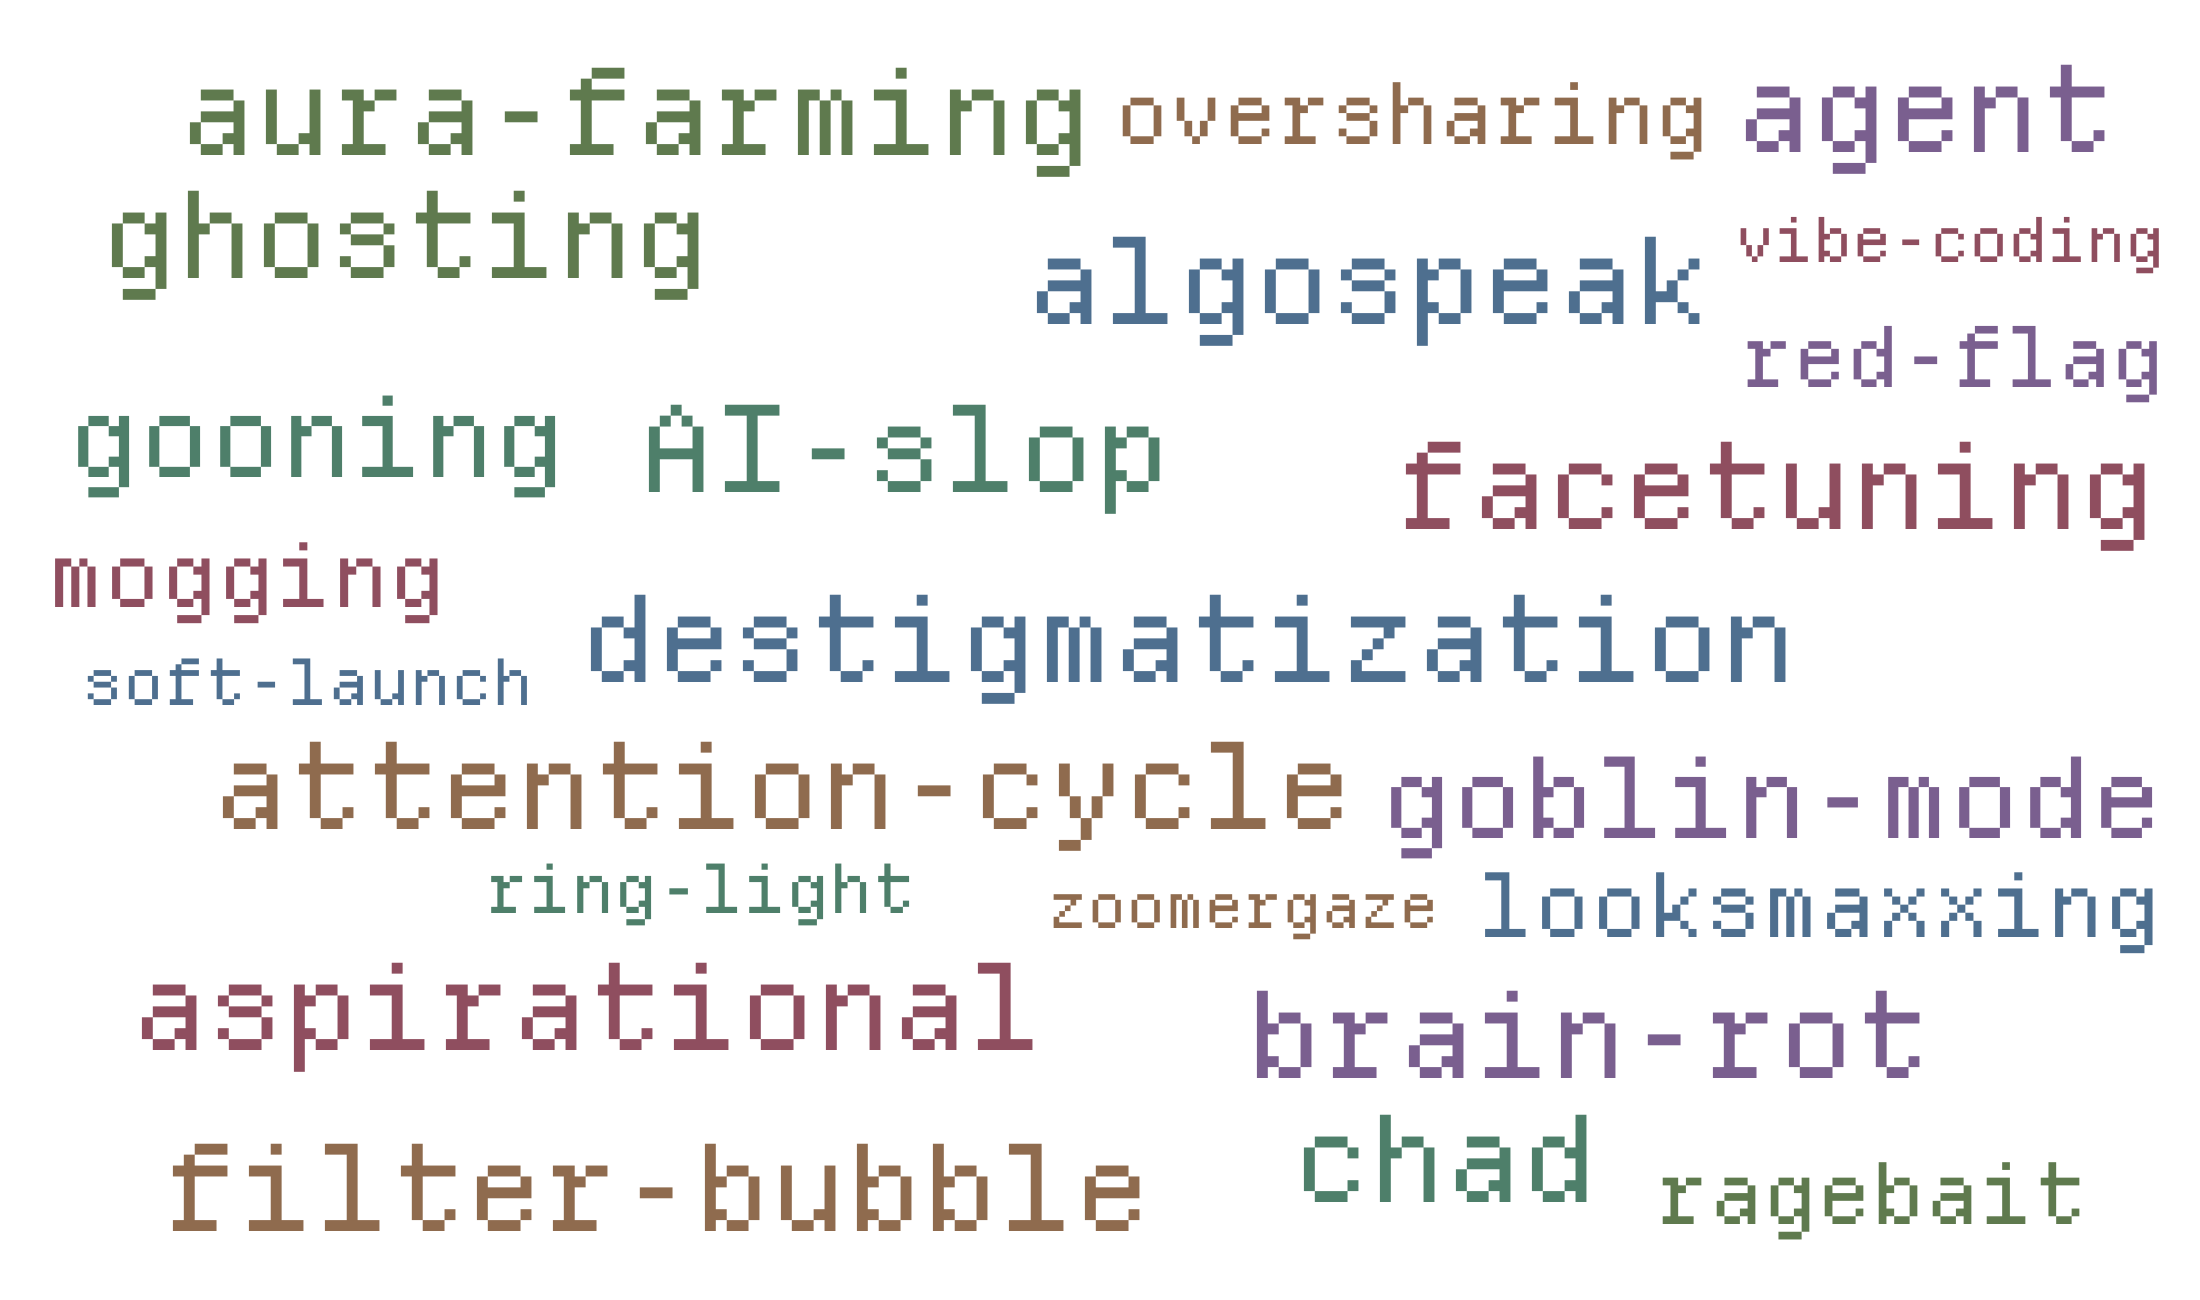
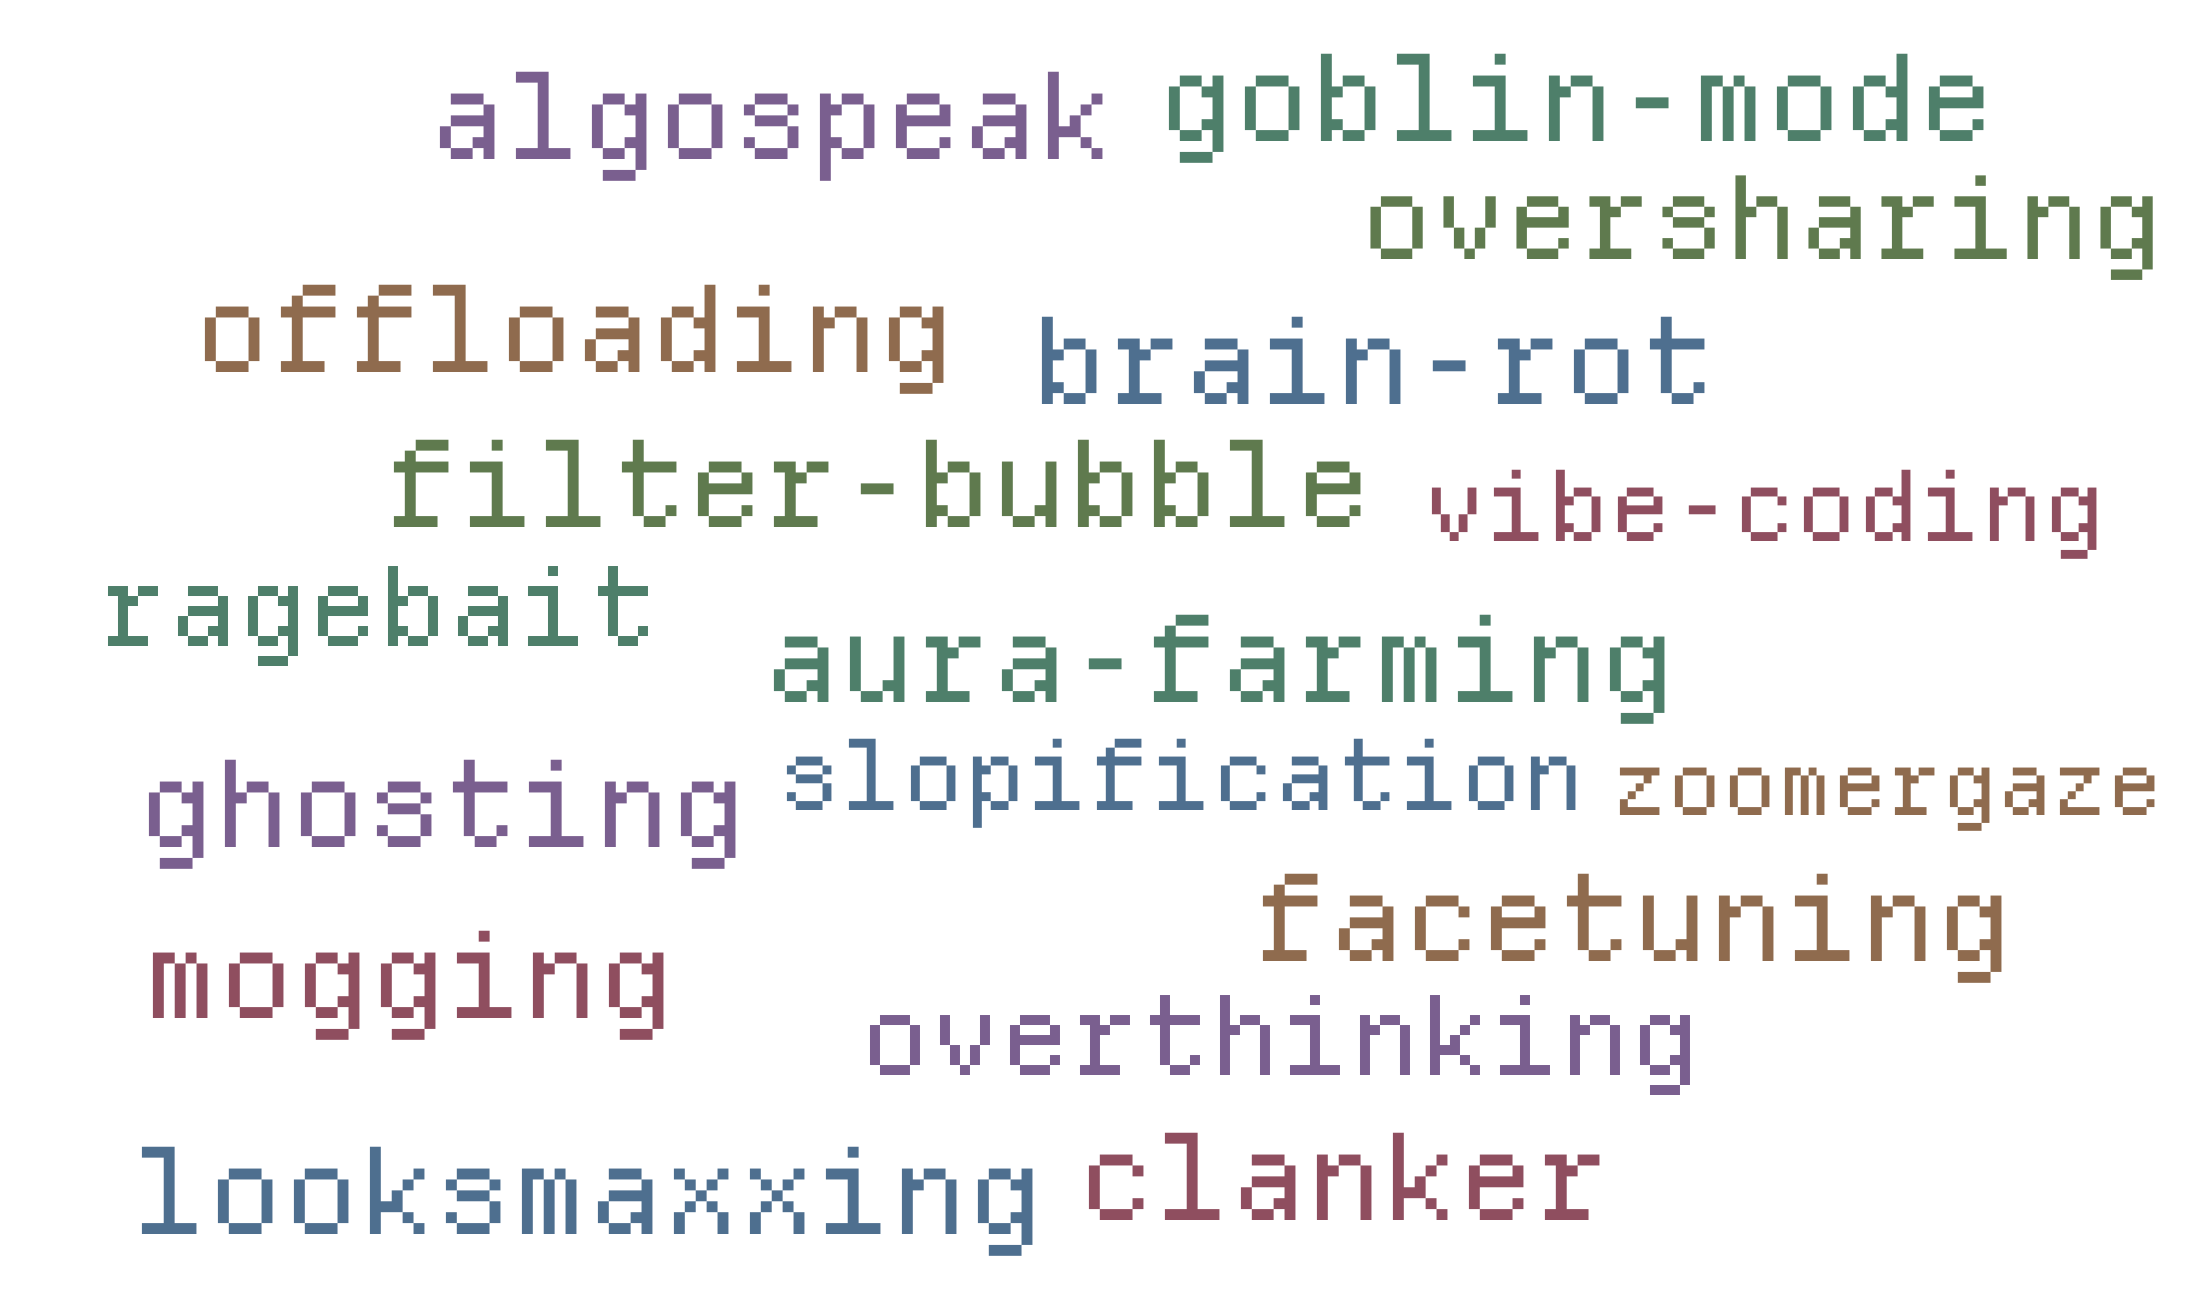
content: update dystopian zeitgeist terms and wordcloud

Changed region(s): [[0.0, 0.0308, 0.9891, 0.8615], [0.0618, 0.8615, 0.9582, 0.9846]]

diff --git a/content/dystopian-zeitgeist.md b/content/dystopian-zeitgeist.md
@@ -4,25 +4,21 @@ title: "Dystopian Zeitgeist"
 
 ![[img/wordcloud.png|700]]
 
-- agent
-- AI-slop
 - algospeak
-- aspirational
-- attention-cycle
 - aura-farming
-- brain-rot
-- chad
+- brainrot
+- clanker
+- cringe
 - facetuning
 - filter-bubble
 - ghosting
 - goblin-mode
 - looksmaxxing
 - mogging
+- offloading
 - oversharing
-- overthinking
 - ragebait
-- red-pill
-- soft-launch
+- slopification
 - vibe-coding
 - zoomergaze
 
